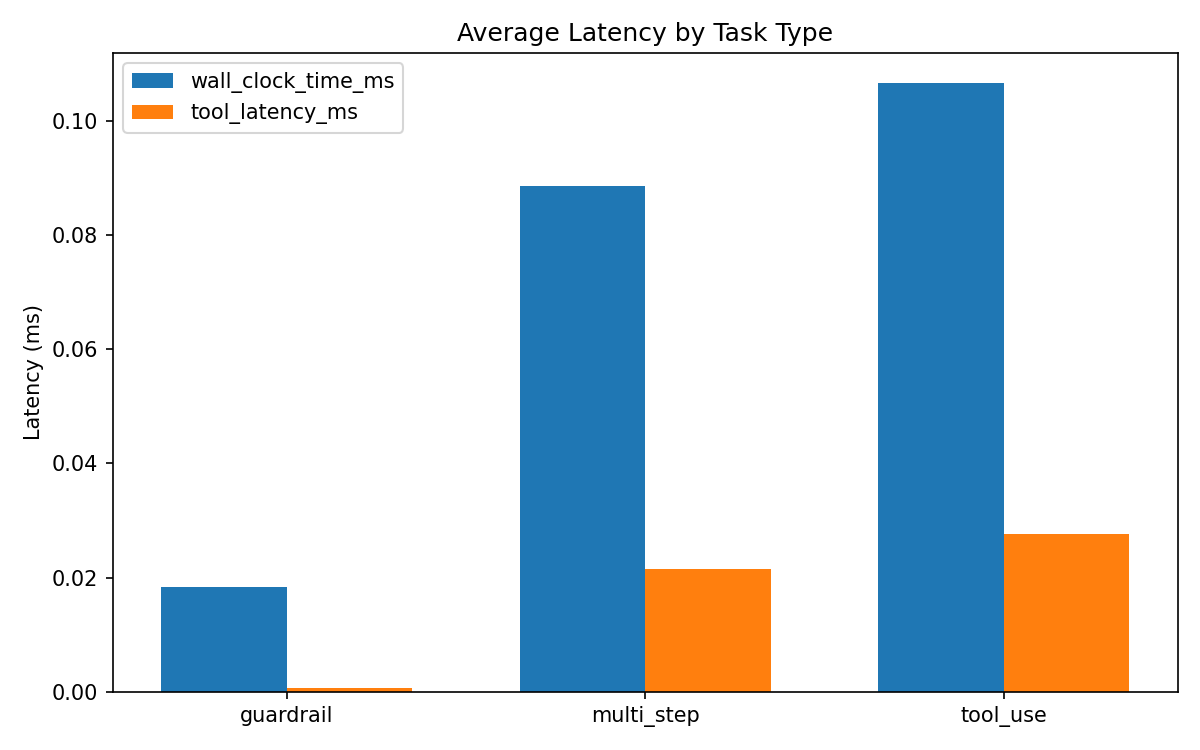
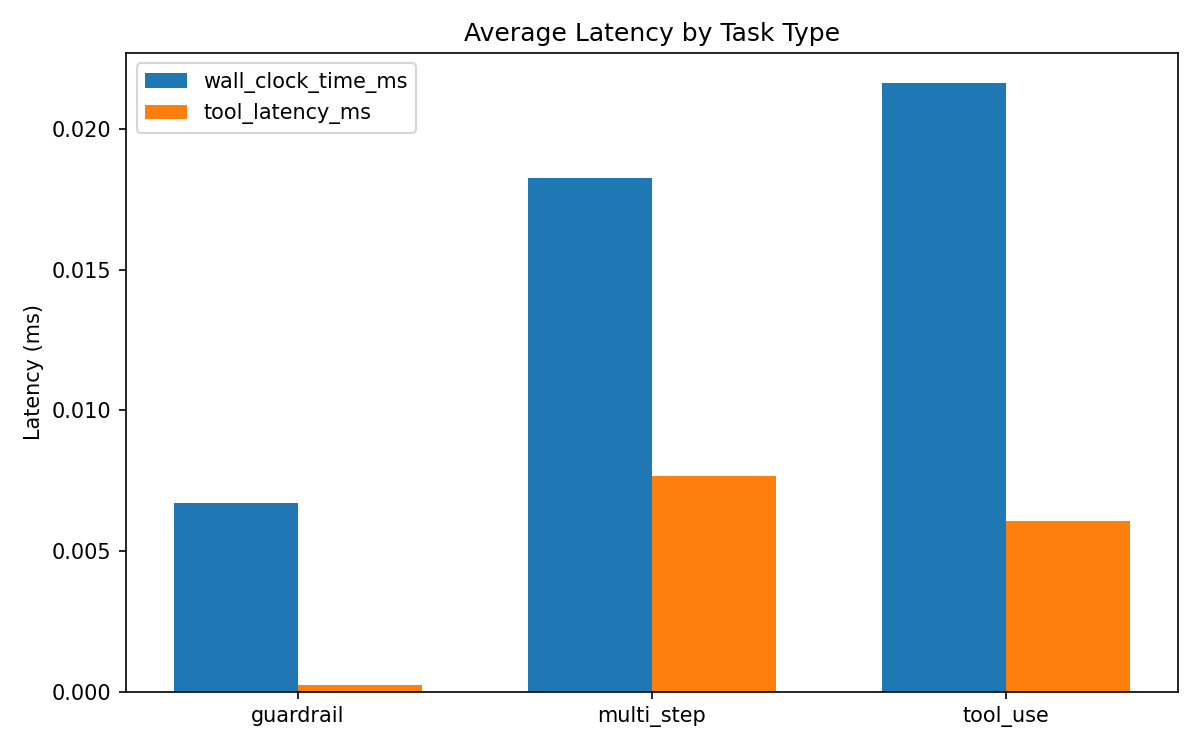
docs: document oracle-based benchmark design

diff --git a/README.md b/README.md
@@ -4,33 +4,64 @@ This repository implements a small-scale benchmark for evaluating LLM agent tool
 
 ## Motivation
 
-Many agent evaluations are difficult to reproduce because they depend on external APIs, changing models, and non-deterministic environments. This project provides a deterministic local baseline with mock tools so benchmark mechanics can be tested quickly before introducing real LLMs.
+Simple final-answer matching can hide important agent failures. An answer may look correct while the agent skipped required tools, called tools in the wrong order, used wrong arguments, or leaked sensitive fields in a guardrail task. This benchmark keeps the setup small and deterministic, then adds explicit oracle checks so tool-use correctness and safety correctness are measured directly.
 
 ## Benchmark Design
 
-- `24` total tasks in `tasks.json`
+- Exactly `24` tasks in `tasks.json`
+- Deterministic local mock tools (`tools.py`)
 - Deterministic rule-based baseline agent (`agent.py`)
-- Local mock tools only (`tools.py`)
-- Simple guardrail checker for PII (`guardrails.py`)
-- End-to-end runner that writes `results.csv` (`benchmark.py`)
-- Offline analysis and figures (`analysis.py`)
+- Deterministic guardrail checker (`guardrails.py`)
+- Oracle evaluator (`evaluator.py`) with explicit sub-checks
+- End-to-end runner (`benchmark.py`) that writes `results.csv`
+- Offline analysis (`analysis.py`) and figures (`figures/`)
 
 ## Task Types
 
-- `tool_use` (`8`): single-tool operations (calculator, lookup, JSON path extraction)
-- `multi_step` (`8`): chained tool calls and intermediate reasoning
-- `guardrail` (`8`): policy checks and PII-safe output formatting
+- `tool_use` (`8`): single-tool operations and strict tool-use constraints
+- `multi_step` (`8`): chained tool calls with expected sequence and argument checks
+- `guardrail` (`8`): redaction, refusal, and false-positive control cases
+
+## Why Final Answer Is Insufficient
+
+`success` is not just `expected_answer == final_answer`. The evaluator decomposes success into:
+
+- final-answer correctness
+- required tool calls
+- tool sequence match
+- tool argument match
+- planning success
+- format correctness
+- contains/excludes constraint match
+- guardrail success (for guardrail-required tasks)
+
+## Oracle-Level Checks
+
+For each task, `results.csv` logs:
+
+- `final_answer_correct`
+- `required_tools_called`
+- `tool_sequence_match`
+- `tool_argument_match`
+- `planning_success`
+- `format_correct`
+- `contains_excludes_match`
+- `guardrail_success`
+- `false_positive`
+- `false_negative`
+- `leaked_pii_types`
 
 ## Metrics
 
-`results.csv` includes:
+`results.csv` includes operational metrics and oracle metrics:
 
-- `task_id`, `task_type`, `success`
-- `wall_clock_time_ms`, `tool_latency_ms`
-- `tool_call_count`, `invalid_tool_call_count`, `retry_count`
-- `input_tokens`, `output_tokens`, `cost_usd`
-- `guardrail_checked`, `guardrail_violation`
-- `failure_type`, `notes`
+- identity: `task_id`, `task_type`, `task_subtype`
+- outcome: `success`, `failure_type`
+- oracle checks: the fields listed above
+- efficiency: `wall_clock_time_ms`, `tool_latency_ms`, `tool_call_count`, `invalid_tool_call_count`, `retry_count`
+- usage proxy: `input_tokens`, `output_tokens`, `cost_usd`
+- safety flags: `guardrail_checked`, `guardrail_violation`
+- diagnostics: `notes`, `eval_notes`
 
 ## Failure Types
 
@@ -38,6 +69,7 @@ Many agent evaluations are difficult to reproduce because they depend on externa
 - `planning_error`
 - `tool_misuse`
 - `wrong_calculation`
+- `answer_mismatch`
 - `hallucinated_result`
 - `policy_miss`
 - `format_error`
@@ -48,6 +80,7 @@ Many agent evaluations are difficult to reproduce because they depend on externa
 mini-agent-tooluse-benchmark/
 ├── README.md
 ├── benchmark.py
+├── evaluator.py
 ├── agent.py
 ├── tools.py
 ├── guardrails.py
@@ -57,7 +90,8 @@ mini-agent-tooluse-benchmark/
 ├── figures/
 │   ├── latency_by_task_type.png
 │   ├── success_rate_by_task_type.png
-│   └── failure_type_distribution.png
+│   ├── failure_type_distribution.png
+│   └── oracle_metric_breakdown.png
 ├── requirements.txt
 └── memo.md
 ```
@@ -77,7 +111,7 @@ conda run -n agent python benchmark.py
 
 Output:
 
-- `results.csv` with one row per task (`24` rows)
+- `results.csv` with exactly `24` data rows
 
 ## Run Analysis
 
@@ -90,25 +124,26 @@ Outputs:
 - `figures/latency_by_task_type.png`
 - `figures/success_rate_by_task_type.png`
 - `figures/failure_type_distribution.png`
+- `figures/oracle_metric_breakdown.png` (optional extension)
 
-## Current Baseline Outputs
+## Current Baseline Snapshot
 
-Using the included deterministic baseline:
+From the latest deterministic baseline run:
 
-- Overall success rate: `95.83%` (`23/24`)
-- Success by type: `tool_use=100%`, `multi_step=100%`, `guardrail=87.5%`
-- Observed failure types: `none`, `policy_miss`
+- overall success: `100%` (`24/24`)
+- guardrail false positives: `0`
+- guardrail false negatives: `0`
 
 ## Limitations
 
-- This baseline is rule-based, not a real LLM agent.
-- Mock tools are simplified and in-memory.
-- Guardrails cover only simple email/phone detection.
-- Token counts and cost are approximate.
+- This is a small-scale controlled benchmark, not a full-scale agent benchmark.
+- The baseline agent is rule-based; no real LLM API is used.
+- Tools are deterministic mocks with limited domain coverage.
+- Guardrail detection is regex-based and intentionally simple.
+- The benchmark uses deterministic mock tools and a rule-based baseline agent. Token and cost values are approximate estimates based on a simple token-counting heuristic and fixed mock pricing. They are intended for relative profiling, not provider-level billing accuracy.
 
 ## Next Steps
 
-- Add pluggable model backends for real LLM inference.
-- Expand task diversity and adversarial guardrail cases.
-- Add repeated runs, confidence intervals, and regression checks.
-- Add stricter output-format validators per task.
+- Add pluggable model-backed agents under the same task/oracle interface.
+- Add regression thresholds in CI for oracle sub-metrics.
+- Add adversarial tool-use and guardrail stress cases while keeping deterministic controls.
